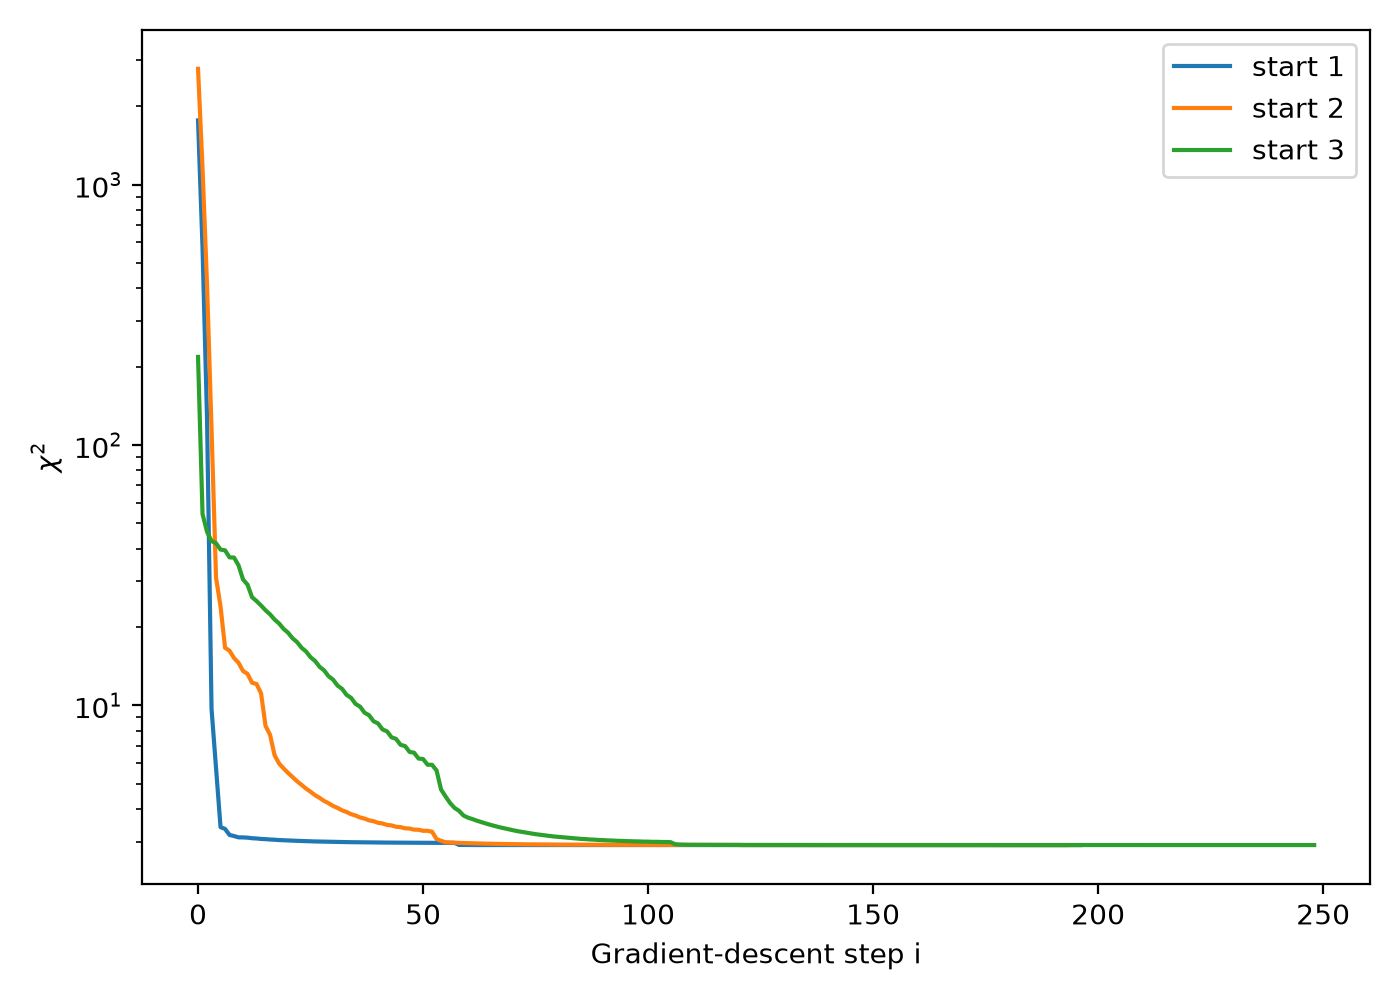
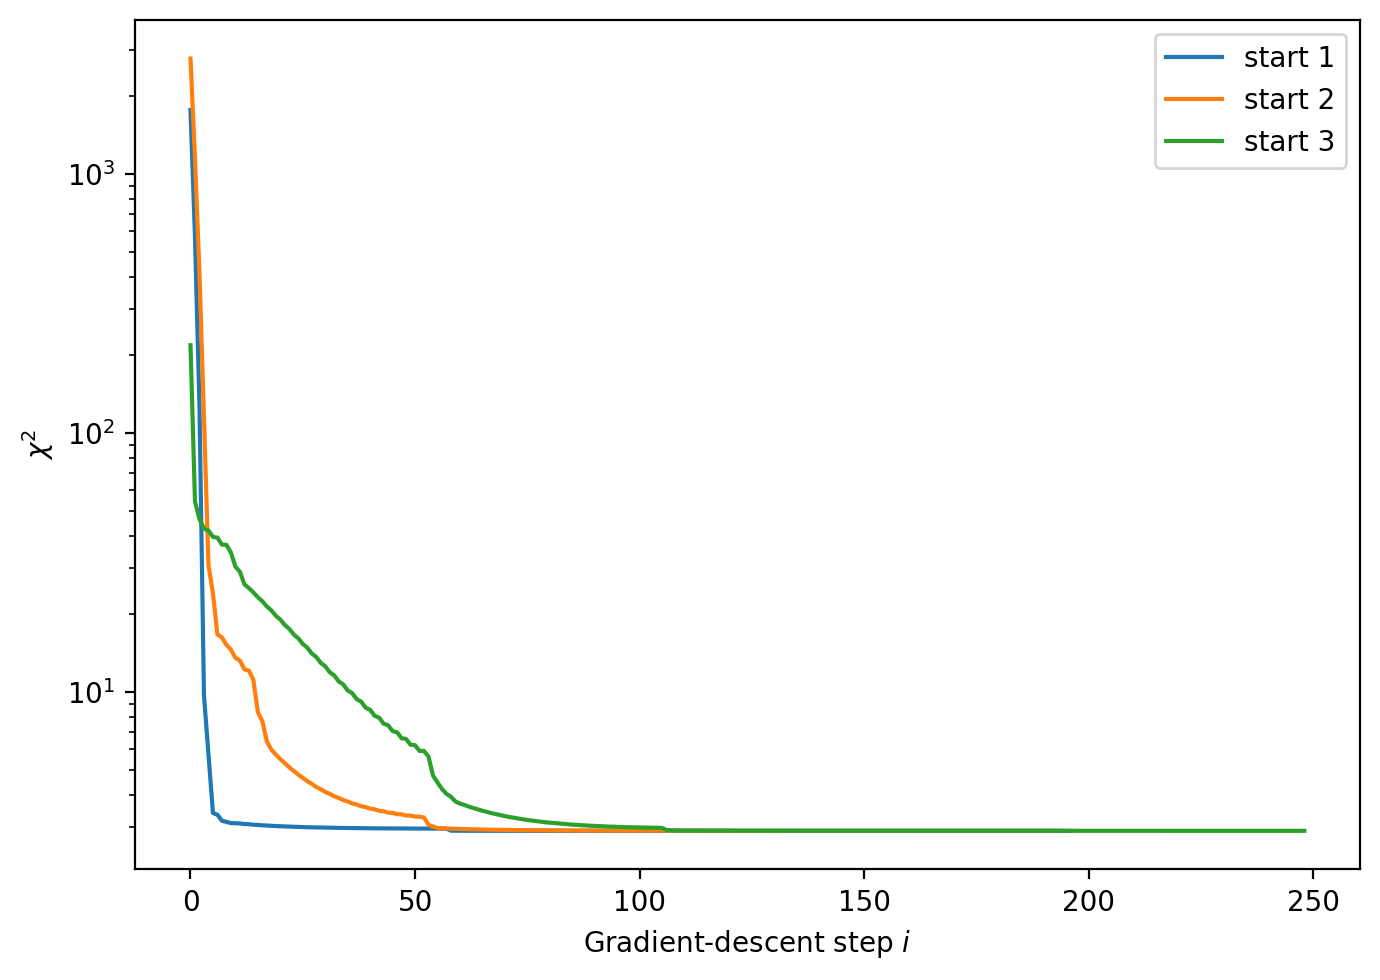
changes

diff --git a/homework2.py b/homework2.py
@@ -2,70 +2,292 @@ import math
 import numpy as np
 import matplotlib.pyplot as plt
 
+# ============================================================
 # Question 1: Exercise 6.11 - Overrelaxation
-def f_relax(x, c=2.0): return 1.0-math.exp(-c*x)
-def fp_relax(x, c=2.0): return c*math.exp(-c*x)
+# ============================================================
+
+def f_relax(x, c=2.0):
+    return 1.0 - math.exp(-c * x)
+
+
+def fp_relax(x, c=2.0):
+    return c * math.exp(-c * x)
+
+
 def solve_relax(c=2.0, x=1.0, omega=0.0, tol=1e-6):
-    for n in range(1,10001):
-        xn=(1+omega)*f_relax(x,c)-omega*x
-        q=(1+omega)*fp_relax(x,c)-omega
-        err=abs((x-xn)/(1-1/q)) if abs(q)>1e-15 and abs(1-1/q)>1e-15 else abs(xn-x)
-        x=xn
-        if err<tol: return x,n,err
-    raise RuntimeError('No convergence')
+    for n in range(1, 10001):
+        xn = (1.0 + omega) * f_relax(x, c) - omega * x
+        q = (1.0 + omega) * fp_relax(x, c) - omega
 
-print('QUESTION 1')
-for w in [0.0,0.5,0.68,0.685]:
-    x,n,e=solve_relax(omega=w); print(w,x,n,e)
+        if abs(q) > 1e-15 and abs(1.0 - 1.0 / q) > 1e-15:
+            err = abs((x - xn) / (1.0 - 1.0 / q))
+        else:
+            err = abs(xn - x)
 
+        x = xn
+        if err < tol:
+            return x, n, err
+
+    raise RuntimeError("No convergence")
+
+
+print("QUESTION 1")
+for w in [0.0, 0.5, 0.68, 0.685]:
+    x, n, e = solve_relax(omega=w)
+    print(w, x, n, e)
+
+
+# ============================================================
 # Question 2: Exercise 6.13 - Wien displacement
-h=6.62607015e-34; c=2.99792458e8; kB=1.380649e-23
-def fw(x): return 5*math.exp(-x)+x-5
-def bisect(a,b,tol=1e-6):
-    fa=fw(a)
-    while b-a>tol:
-        m=(a+b)/2; fm=fw(m)
-        if fa*fm<=0: b=m
-        else: a=m; fa=fm
-    return (a+b)/2
-xw=bisect(1,10); bw=h*c/(kB*xw); Ts=bw/(502e-9)
-print('\nQUESTION 2'); print('x =',xw); print('b =',bw,'m K'); print('T_sun =',Ts,'K')
+# ============================================================
 
-# Question 3: multidimensional numerical gradient descent
-data=np.loadtxt('smf_cosmos.dat'); logM,nobs,sigma=data.T
-def schechter(theta,x=logM):
-    lp,lms,a=theta; r=10**(x-lms)
-    return np.log(10)*10**lp*r**(a+1)*np.exp(-r)
-def chi2(theta): return np.sum(((nobs-schechter(theta))/sigma)**2)
-def numgrad(theta,hstep=1e-5):
-    t=np.array(theta,float); g=np.zeros_like(t)
-    for j in range(len(t)):
-        d=hstep*max(1,abs(t[j])); p=t.copy(); m=t.copy(); p[j]+=d; m[j]-=d
-        g[j]=(chi2(p)-chi2(m))/(2*d)
-    return g
-def gradient_descent(start,max_iter=20000):
-    t=np.array(start,float); hist=[chi2(t)]
+h = 6.62607015e-34
+c = 2.99792458e8
+kB = 1.380649e-23
+
+
+def fw(x):
+    return 5.0 * math.exp(-x) + x - 5.0
+
+
+def bisect(a, b, tol=1e-6):
+    fa = fw(a)
+    while b - a > tol:
+        m = (a + b) / 2.0
+        fm = fw(m)
+        if fa * fm <= 0.0:
+            b = m
+        else:
+            a = m
+            fa = fm
+    return (a + b) / 2.0
+
+
+xw = bisect(1.0, 10.0)
+bw = h * c / (kB * xw)
+Ts = bw / (502e-9)
+
+print("\nQUESTION 2")
+print("x =", xw)
+print("b =", bw, "m K")
+print("T_sun =", Ts, "K")
+
+
+# ============================================================
+# Question 3A: General multidimensional numerical gradient descent
+# ============================================================
+
+def numerical_gradient(func, theta, hstep=1e-5):
+    """Centered numerical gradient of a scalar function."""
+    theta = np.asarray(theta, dtype=float)
+    grad = np.zeros_like(theta)
+
+    for j in range(len(theta)):
+        hj = hstep * max(1.0, abs(theta[j]))
+        plus = theta.copy()
+        minus = theta.copy()
+        plus[j] += hj
+        minus[j] -= hj
+        grad[j] = (func(plus) - func(minus)) / (2.0 * hj)
+
+    return grad
+
+
+def gradient_descent(func, start, initial_step=0.1, max_iter=20000,
+                     value_tol=1e-12, grad_tol=1e-14):
+    """Normalized-gradient descent with a backtracking line search."""
+    theta = np.asarray(start, dtype=float).copy()
+    values = [func(theta)]
+    path = [theta.copy()]
+
     for _ in range(max_iter):
-        g=numgrad(t); norm=np.linalg.norm(g)
-        if norm==0: break
-        direction=-g/norm; step=.1
-        while step>1e-12:
-            trial=t+step*direction; val=chi2(trial)
-            if np.isfinite(val) and val<hist[-1]: break
-            step*=.5
-        if step<=1e-12: break
-        t=trial; hist.append(val)
-        if abs(hist[-2]-hist[-1])<1e-12: break
-    return t,np.array(hist)
-starts=[[-2.3,11,-1.2],[-2,10.8,-1],[-3,11.2,-1.5]]
-sol=[]; histories=[]
-print('\nQUESTION 3')
-for s in starts:
-    t,hist=gradient_descent(s); sol.append(t); histories.append(hist); print('start',s,'->',t,'chi2=',hist[-1])
-best=sol[int(np.argmin([chi2(t) for t in sol]))]; lp,lms,a=best; phi=10**lp; Mstar=10**lms
-print('best:',best,'phi*=',phi,'M*=',Mstar,'chi2=',chi2(best))
-plt.figure(figsize=(7,5))
-for i,hist in enumerate(histories,1): plt.semilogy(np.arange(len(hist)),hist,label=f'start {i}')
-plt.xlabel('Gradient-descent step i'); plt.ylabel(r'$\chi^2$'); plt.legend(); plt.tight_layout(); plt.savefig('chi2_vs_step.png',dpi=200); plt.close()
-grid=np.linspace(logM.min(),logM.max(),400); r=10**(grid-lms); gm=np.log(10)*phi*r**(a+1)*np.exp(-r)
-plt.figure(figsize=(7,5)); plt.errorbar(10**logM,nobs,yerr=sigma,fmt='o',capsize=3,label='COSMOS data'); plt.loglog(10**grid,gm,label='Best-fit Schechter function'); plt.xlabel(r'$M_{\rm gal}$'); plt.ylabel(r'$n(M_{\rm gal})$'); plt.legend(); plt.tight_layout(); plt.savefig('schechter_fit.png',dpi=200); plt.close()
+        grad = numerical_gradient(func, theta)
+        norm = np.linalg.norm(grad)
+
+        if norm < grad_tol:
+            break
+
+        direction = -grad / norm
+        step = initial_step
+
+        while step > 1e-12:
+            trial = theta + step * direction
+            trial_value = func(trial)
+
+            if np.isfinite(trial_value) and trial_value < values[-1]:
+                break
+            step *= 0.5
+
+        if step <= 1e-12:
+            break
+
+        theta = trial
+        path.append(theta.copy())
+        values.append(trial_value)
+
+        if abs(values[-2] - values[-1]) < value_tol:
+            break
+
+    return theta, np.asarray(values), np.asarray(path)
+
+
+# ------------------------------------------------------------
+# Test on f(x,y) = (x-2)^2 + (y-2)^2
+# ------------------------------------------------------------
+
+def test_function(theta):
+    x, y = theta
+    return (x - 2.0) ** 2 + (y - 2.0) ** 2
+
+
+test_start = np.array([-1.0, 5.0])
+test_solution, test_values, test_path = gradient_descent(
+    test_function,
+    test_start,
+    initial_step=0.2,
+)
+
+print("\nQUESTION 3: GRADIENT-DESCENT TEST")
+print("start =", test_start)
+print("numerical minimum =", test_solution)
+print("exact minimum = [2, 2]")
+print("f(minimum) =", test_function(test_solution))
+
+x_grid = np.linspace(-2.0, 6.0, 300)
+y_grid = np.linspace(-2.0, 6.0, 300)
+X, Y = np.meshgrid(x_grid, y_grid)
+Z = (X - 2.0) ** 2 + (Y - 2.0) ** 2
+
+plt.figure(figsize=(7, 6))
+contours = plt.contour(X, Y, Z, levels=20)
+plt.clabel(contours, inline=True, fontsize=8)
+plt.plot(
+    test_path[:, 0],
+    test_path[:, 1],
+    "o-",
+    markersize=4,
+    label="Gradient-descent path",
+)
+plt.plot(
+    test_path[0, 0],
+    test_path[0, 1],
+    "s",
+    markersize=8,
+    label="Initial point",
+)
+plt.plot(2.0, 2.0, "*", markersize=14, label="Exact minimum $(2,2)$")
+plt.xlabel("$x$")
+plt.ylabel("$y$")
+plt.title(r"Numerical Gradient Descent on $f(x,y)=(x-2)^2+(y-2)^2$")
+plt.legend()
+plt.tight_layout()
+plt.savefig("gradient_descent_test.png", dpi=200, bbox_inches="tight")
+plt.close()
+
+
+# ============================================================
+# Question 3B: Schechter-function fit
+# ============================================================
+# The supplied assignment data file must be in the same directory.
+
+data = np.loadtxt("smf_cosmos.dat")
+logM, nobs, sigma = data.T
+
+
+def schechter(theta, x=None):
+    if x is None:
+        x = logM
+
+    log_phi_star, log_M_star, alpha = theta
+    ratio = 10.0 ** (x - log_M_star)
+
+    return (
+        np.log(10.0)
+        * 10.0 ** log_phi_star
+        * ratio ** (alpha + 1.0)
+        * np.exp(-ratio)
+    )
+
+
+def chi2(theta):
+    model = schechter(theta)
+    return np.sum(((nobs - model) / sigma) ** 2)
+
+
+starts = [
+    [-2.3, 11.0, -1.2],
+    [-2.0, 10.8, -1.0],
+    [-3.0, 11.2, -1.5],
+]
+
+solutions = []
+histories = []
+paths = []
+
+print("\nQUESTION 3: SCHECHTER FIT")
+
+for start in starts:
+    solution, history, path = gradient_descent(
+        chi2,
+        start,
+        initial_step=0.1,
+    )
+    solutions.append(solution)
+    histories.append(history)
+    paths.append(path)
+    print("start", start, "->", solution, "chi2 =", history[-1])
+
+best_index = int(np.argmin([chi2(theta) for theta in solutions]))
+best = solutions[best_index]
+
+log_phi_star, log_M_star, alpha = best
+phi_star = 10.0 ** log_phi_star
+M_star = 10.0 ** log_M_star
+
+print("best =", best)
+print("phi* =", phi_star)
+print("M* =", M_star)
+print("chi2 =", chi2(best))
+
+
+# Plot chi^2 versus gradient-descent step for all three starts.
+plt.figure(figsize=(7, 5))
+for i, history in enumerate(histories, 1):
+    plt.semilogy(
+        np.arange(len(history)),
+        history,
+        label=f"start {i}",
+    )
+
+plt.xlabel("Gradient-descent step $i$")
+plt.ylabel(r"$\chi^2$")
+plt.legend()
+plt.tight_layout()
+plt.savefig("chi2_vs_step.png", dpi=200, bbox_inches="tight")
+plt.close()
+
+
+# Plot the best-fit Schechter function and COSMOS measurements.
+grid = np.linspace(logM.min(), logM.max(), 400)
+grid_model = schechter(best, x=grid)
+
+plt.figure(figsize=(7, 5))
+plt.errorbar(
+    10.0 ** logM,
+    nobs,
+    yerr=sigma,
+    fmt="o",
+    capsize=3,
+    label="COSMOS data",
+)
+plt.loglog(
+    10.0 ** grid,
+    grid_model,
+    label="Best-fit Schechter function",
+)
+plt.xlabel(r"$M_{\rm gal}$")
+plt.ylabel(r"$n(M_{\rm gal})$")
+plt.legend()
+plt.tight_layout()
+plt.savefig("schechter_fit.png", dpi=200, bbox_inches="tight")
+plt.close()
